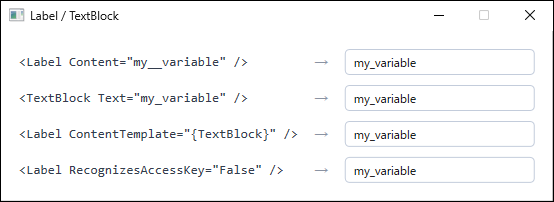
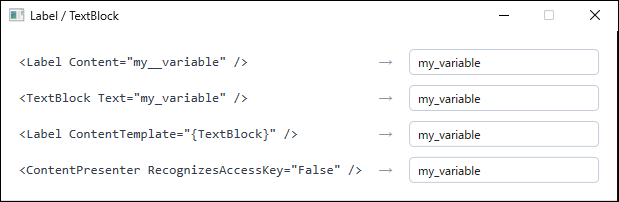
レビュー指摘 10 件に対応する
## 記事の記述

- `AccessText` の生成条件を訂正した。`RecognizesAccessKey` が `True` である
  だけでは生成されず、文字列にアンダーバーが含まれる場合に限られる。
- 対象コントロールの定義を「`ContentControl` を継承する標準コントロール全般」から
  「既定テンプレートの `ContentPresenter` が `RecognizesAccessKey="True"` である
  コントロール」に改めた。`ListBoxItem` や `ComboBoxItem` も `ContentControl` を
  継承するが影響を受けないため、継承関係では範囲を説明できない。
- 方法 4 の説明から「見た目と余白を保ったまま」を削除した。
  例示している `ControlTemplate` は `ContentPresenter` だけを置くため、
  `Border` と余白は失われる。デメリット欄の記述と矛盾していた。
- `SelectionChanged` を「ユーザー操作の通知」と書いていたのを訂正した。
  `SelectAll` の呼び出しや、コンテナ実体化時のバインドによる復元でも発生する。
  そのうえで、セッターで同値を弾く意味を追記した。
- `System.Windows.Interactivity` を `Microsoft.Xaml.Behaviors.Wpf` に改め、
  `InvokeCommandAction` を使う XAML の例を追加した。
- 実体化コンテナ数が件数に依存しない件を、10,000 件だけの計測に基づく記述から、
  図に示した 3 通り（100 / 10,000 / 100,000 件）の計測に基づく記述へ変更した。

## ツール

- `LabelVsTextBlockScene` の visual 集計から、入れ物である `StackPanel` も除いた。
  従来は `Border` だけを除いていたため 1 個多く数えており、
  「`Label` は `TextBlock` の 4 倍」がちょうど 4 倍にならなかった。
  4,001 → 4,000、1,001 → 1,000 となり、本文の記述と一致する。
- 仮想化計測の試行回数を 12 から `Iterations`（15）へ統一した。
  本文に「15 回試行」と書いていたが、この図だけ 12 回だった。
- `ListBoxSelectionSyncScene` のコスト計測を件数別に拡張し、
  100 / 10,000 / 100,000 件を計測するようにした。
  あわせて、最初の条件だけに JIT の影響が乗って
  「件数が多いほど速い」という誤解を招く並びになるのを避けるため暖機を追加した。
- `LabelUnderscoreScene` の XML ドキュメントコメントを 3 → 4 に直し、
  図に出す見出しを実際の XAML に合わせて
  `<ContentPresenter RecognizesAccessKey="False" />` にした。
  従来の `<Label RecognizesAccessKey="False" />` は `Label` に存在しない
  プロパティを書いた形になっていた。

## README
[…]

diff --git a/tools/screenshot-capture/Scenes/ListBoxSelectionSyncScene.cs b/tools/screenshot-capture/Scenes/ListBoxSelectionSyncScene.cs
@@ -61,10 +61,10 @@ internal sealed class ListBoxSelectionSyncScene : IScene
             => PropertyChanged?.Invoke(this, new PropertyChangedEventArgs(propertyName));
     }
 
-    private static List<RowItemViewModel> CreateRows()
+    private static List<RowItemViewModel> CreateRows(int count = ItemCount)
     {
-        var rows = new List<RowItemViewModel>(ItemCount);
-        for (int i = 1; i <= ItemCount; i++)
+        var rows = new List<RowItemViewModel>(count);
+        for (int i = 1; i <= count; i++)
         {
             rows.Add(new RowItemViewModel { Name = $"Row {i}" });
         }
@@ -170,17 +170,36 @@ internal sealed class ListBoxSelectionSyncScene : IScene
     }
 
     /// <summary>
-    /// <c>CanContentScroll</c> を切り替えたときに、実体化される
-    /// <see cref="ListBoxItem"/> の数とレイアウト時間がどう変わるかを測る。
+    /// 実体化される <see cref="ListBoxItem"/> の数が件数に依存しないことと、
+    /// <c>CanContentScroll</c> を <c>False</c> にすると仮想化が止まることを測る。
+    /// 前者を示すため、件数を変えた 3 通りを同じ条件で計測する。
     /// </summary>
     private static Window BuildVirtualizationCostWindow()
     {
+        // CanContentScroll="False" は全件分のコンテナを作るため、
+        // 件数を増やした組み合わせは測らない。
+        (int Items, bool CanContentScroll)[] conditions =
+        [
+            (100, true),
+            (ItemCount, true),
+            (100_000, true),
+            (ItemCount, false),
+        ];
+
         var rows = new List<IReadOnlyList<string>>();
 
         // ウィンドウの生成コストを計測に含めないよう、空のウィンドウを先に表示しておく。
         using var host = new HostWindow();
 
-        foreach (bool canContentScroll in new[] { true, false })
+        // JIT とテンプレート初期化の影響が最初の条件だけに乗ると、
+        // 件数が多いほど速いという誤解を招く並びになるため、先に暖機する。
+        for (int i = 0; i < 2; i++)
+        {
+            host.MeasureMount(CreateListBox(CreateRows(), bindIsSelected: true));
+            host.Clear();
+        }
+
+        foreach ((int items, bool canContentScroll) in conditions)
         {
             double best = double.MaxValue;
             int containers = 0;
@@ -189,8 +208,8 @@ internal sealed class ListBoxSelectionSyncScene : IScene
             // 単発では GC やレンダリングの影響でばらつくため、複数回試して最小値を採る。
             for (int i = 0; i < MeasureIterations; i++)
             {
-                List<RowItemViewModel> items = CreateRows();
-                ListBox listBox = CreateListBox(items, bindIsSelected: true, canContentScroll);
+                List<RowItemViewModel> data = CreateRows(items);
+                ListBox listBox = CreateListBox(data, bindIsSelected: true, canContentScroll);
 
                 best = Math.Min(best, host.MeasureMount(listBox));
                 containers = FindAll<ListBoxItem>(listBox).Count;
@@ -201,6 +220,7 @@ internal sealed class ListBoxSelectionSyncScene : IScene
 
             rows.Add(
             [
+                Format(items),
                 canContentScroll.ToString(),
                 Format(containers),
                 Format(visuals),
@@ -209,8 +229,8 @@ internal sealed class ListBoxSelectionSyncScene : IScene
         }
 
         return DemoLayout.BuildTableWindow(
-            $"ListBox, {ItemCount:N0} items",
-            ["CanContentScroll", "ListBoxItem", "visuals", "layout ms"],
+            "ListBox, IsVirtualizing=True",
+            ["items", "CanContentScroll", "ListBoxItem", "visuals", "layout ms"],
             rows);
     }
 

diff --git a/tools/screenshot-capture/Scenes/LabelUnderscoreScene.cs b/tools/screenshot-capture/Scenes/LabelUnderscoreScene.cs
@@ -71,7 +71,7 @@ internal sealed class LabelUnderscoreScene : IScene
     }
 
     /// <summary>
-    /// 本文「実装例」の 3 つの回避方法が、いずれも my_variable と表示されることを示す。
+    /// 本文「実装例」の 4 つの回避方法が、いずれも my_variable と表示されることを示す。
     /// </summary>
     private static Window BuildWorkaroundWindow()
     {
@@ -95,8 +95,9 @@ internal sealed class LabelUnderscoreScene : IScene
                       </Label.ContentTemplate>
                     </Label>
                     """)),
+            // 差し替えた ControlTemplate のうち、結果を決めている要素だけを見出しに出す。
             new DemoLayout.Row(
-                """<Label RecognizesAccessKey="False" />""",
+                """<ContentPresenter RecognizesAccessKey="False" />""",
                 SceneContext.LoadXaml<Label>(
                     """
                     <Label Content="my_variable" Padding="0">

diff --git a/tools/screenshot-capture/Scenes/LabelVsTextBlockScene.cs b/tools/screenshot-capture/Scenes/LabelVsTextBlockScene.cs
@@ -138,7 +138,7 @@ internal sealed class LabelVsTextBlockScene : IScene
         var label = new Measurement();
         var textBlock = new Measurement();
 
-        for (int i = 0; i < 12; i++)
+        for (int i = 0; i < Iterations; i++)
         {
             label.Add(MeasureVirtualized(labelItem));
             textBlock.Add(MeasureVirtualized(textBlockItem));
@@ -189,8 +189,9 @@ internal sealed class LabelVsTextBlockScene : IScene
         host.UpdateLayout();
         stopwatch.Stop();
 
-        // ホストの Border 自身は数えない。
-        return new Sample(CountVisuals(host) - 1, stopwatch.Elapsed.TotalMilliseconds);
+        // 並べた要素の分だけを数えるため、入れ物である Border と StackPanel の
+        // 2 個を除く。こうすると 1 個あたりの visual 数がそのまま倍率になる。
+        return new Sample(CountVisuals(host) - 2, stopwatch.Elapsed.TotalMilliseconds);
     }
 
     /// <summary>

diff --git a/_articles_en/wpf-listbox-virtualization-selecteditems.md b/_articles_en/wpf-listbox-virtualization-selecteditems.md
@@ -58,7 +58,8 @@ With `VirtualizationMode="Recycling"`, containers are reused, which makes incons
 ### Realized Containers Do Not Scale with Item Count
 
 With virtualization active, only as many `ListBoxItem` instances exist as the visible range requires.
-Measured on a 600px-tall `ListBox`, the number of realized containers stayed constant at 31 whether the collection held 100 items or 100,000.
+Measured on a 600px-tall `ListBox`, the number of realized containers stayed constant at 31 across collections of 100, 10,000, and 100,000 items.
+Those measurements appear in the figure under "Keeping Virtualization Intact" below.
 
 Only those 31 containers carry a binding; the remaining 9,969 items have none.
 The belief that "state is safe as long as it lives on the data" **holds only in the data-to-container direction**.
@@ -231,8 +232,30 @@ private void RowListBox_SelectionChanged(object sender, SelectionChangedEventArg
 }
 ```
 
-To preserve MVVM, invoke the same logic from an attached behavior or an `EventTrigger`.
-`SelectionChanged` reports a user action rather than a `ListBox` implementation detail, so delegating it to a ViewModel command raises no structural concern.
+`SelectionChanged` is not raised by user interaction alone.
+It also fires on a `SelectAll` call, on assignment to `SelectedItem`, and — in the configuration described here — **when a container is realized and the binding restores its selection state**.
+The handler above therefore receives a call assigning `true` to an item that is already `true` every time a container is restored.
+Rejecting an unchanged value in the setter, as `RowItemViewModel` does above, keeps that path from emitting redundant change notifications.
+
+To preserve MVVM, invoke the same logic from an attached behavior or from an `EventTrigger` in the `Microsoft.Xaml.Behaviors.Wpf` package.
+`System.Windows.Interactivity` (the Blend SDK) has been superseded by `Microsoft.Xaml.Behaviors` and should not be used for new work.
+
+```xml
+<ListBox ItemsSource="{Binding Items}"
+         SelectionMode="Extended"
+         xmlns:b="http://schemas.microsoft.com/xaml/behaviors">
+    <b:Interaction.Triggers>
+        <b:EventTrigger EventName="SelectionChanged">
+            <b:InvokeCommandAction Command="{Binding SelectionChangedCommand}"
+                                   PassEventArgsToCommand="True" />
+        </b:EventTrigger>
+    </b:Interaction.Triggers>
+    <!-- ItemTemplate and ItemContainerStyle as shown above -->
+</ListBox>
+```
+
+`PassEventArgsToCommand="True"` hands the command a `SelectionChangedEventArgs`.
+`e.AddedItems` and `e.RemovedItems` are handled exactly as in the code-behind version.
 
 Wire the event up in XAML.
 
@@ -279,11 +302,14 @@ Setting `ScrollViewer.CanContentScroll` to `False` changes the scroll unit from 
 The impact was measured as follows.
 
 <figure class="article-figure">
-  <img src="/images/articles/wpf-listbox-virtualization-selecteditems/listbox-virtualization-cost.png" alt="A table comparing CanContentScroll values. With True there are 31 ListBoxItem containers and 152 visuals; with False these rise to 10,000 and 40,028, and layout time grows by two orders of magnitude." width="463" height="160" loading="lazy">
-  <figcaption>Measured on .NET 10 / Windows 11 by toggling <code>ScrollViewer.CanContentScroll</code> on a <code>ListBox</code> bound to 10,000 items, taking the minimum of five runs. With <code>False</code>, containers are built for every item and layout time grows by two orders of magnitude. Elapsed time depends on the execution environment, so read the values as ratios rather than absolute numbers.</figcaption>
+  <img src="/images/articles/wpf-listbox-virtualization-selecteditems/listbox-virtualization-cost.png" alt="A table measured across item counts and CanContentScroll values. With CanContentScroll True, ListBoxItem stays at 31 and visuals at 152 for 100 items and for 100,000. Setting False at 10,000 items raises these to 10,000 and 40,028, and layout time grows by two orders of magnitude." width="542" height="221" loading="lazy">
+  <figcaption>Measured on .NET 10 / Windows 11 across item counts and <code>ScrollViewer.CanContentScroll</code> values, taking the minimum of five runs. The three <code>True</code> rows show that a thousandfold increase in item count changes neither the container count, the visual count, nor the layout time. With <code>False</code>, containers are built for every item and layout time grows by two orders of magnitude. Elapsed time depends on the execution environment, so read the values as ratios rather than absolute numbers.</figcaption>
 </figure>
 
-With `False`, realized `ListBoxItem` containers rise from 31 to 10,000 and the total visual count from 152 to 40,028.
+While `CanContentScroll` stays `True`, raising the item count a thousandfold from 100 to 100,000 leaves realized `ListBoxItem` containers at 31 and the total visual count at 152.
+Cost being independent of item count is precisely what virtualization buys.
+
+With `False` at 10,000 items, realized containers rise from 31 to 10,000 and the total visual count from 152 to 40,028.
 The difference in layout time reaches two orders of magnitude.
 
 Setting `CanContentScroll="False"` in pursuit of smooth pixel-based scrolling sacrifices virtualization and becomes impractical at large item counts.

diff --git a/_articles_en/wpf-label-underscore-issue.md b/_articles_en/wpf-label-underscore-issue.md
@@ -20,7 +20,7 @@ This article establishes the affected range of controls through measurement, the
 ## Prerequisites / Environment
 
 - Framework / Language: .NET 10 / C# / WPF / XAML
-- Target controls: `Label`, and standard controls deriving from `ContentControl` in general
+- Target controls: standard controls whose default template sets `ContentPresenter.RecognizesAccessKey` to `True` — `Label`, `Button`, `CheckBox`, `RadioButton`, `ToggleButton`, and the `Header` of `GroupBox`, `Expander`, `TabItem`, and `MenuItem`
 - Architecture: Applies to both MVVM and code-behind approaches
 - Verification environment: Windows 11, default theme (Aero2), display scaling 100%
 - Prior knowledge: WPF basics, XAML fundamentals
@@ -70,7 +70,8 @@ Given `a_b_c`, the access key becomes `b` and the second underscore is rendered 
 ### What Decides Whether AccessText Is Used
 
 Whether `AccessText` is used is determined not by the `Label` type itself, but by the **`RecognizesAccessKey` property of the `ContentPresenter` placed in the default `ControlTemplate`**.
-When that property is `True` and `Content` is a string, the `ContentPresenter` produces an `AccessText` instead of a plain `TextBlock`.
+The `ContentPresenter` produces an `AccessText` only when `RecognizesAccessKey` is `True` **and the string contains an underscore**.
+For a string without one, a plain `TextBlock` is used even though `RecognizesAccessKey` is `True`.
 
 Walking the visual tree makes the difference explicit.
 
@@ -127,7 +128,7 @@ There are four workarounds. The appropriate one depends on the use case.
 - To simply escape the underscore, write it twice as `__` (Workaround 1).
 - When access keys are unnecessary and the text is display-only, switch to `TextBlock` (Workaround 2).
 - To keep `Label` while rendering dynamically bound data correctly, use a `TextBlock` in `ContentTemplate` (Workaround 3).
-- To keep the appearance and padding of `Label` while disabling access-key interpretation, set `RecognizesAccessKey="False"` in a `ControlTemplate` (Workaround 4).
+- To disable access-key interpretation itself regardless of the `Content` type, set `RecognizesAccessKey="False"` in a `ControlTemplate` (Workaround 4). This replaces the default template, so the `Border` and padding must be rebuilt by hand.
 
 Workaround 1 is the only approach that fixes the display while retaining access-key functionality. Workarounds 2 through 4 all give up access keys in exchange for handling strings verbatim.
 
@@ -239,7 +240,7 @@ When the default appearance must be preserved, Workaround 3 has a smaller blast 
 Applying each of the four workarounds produces the same rendered result.
 
 <figure class="article-figure">
-  <img src="/images/articles/wpf-label-underscore-issue/label-underscore-workarounds.png" alt="A WPF window showing four workarounds: an escaped Label, a TextBlock, a Label with a replaced ContentTemplate, and a Label with RecognizesAccessKey set to False. All four render my_variable." width="554" height="202" loading="lazy">
+  <img src="/images/articles/wpf-label-underscore-issue/label-underscore-workarounds.png" alt="A WPF window showing four workarounds: an escaped Label, a TextBlock, a Label with a replaced ContentTemplate, and a Label with RecognizesAccessKey set to False. All four render my_variable." width="619" height="202" loading="lazy">
   <figcaption>The four workarounds executed in the same application. Escaping with <code>__</code>, switching to <code>TextBlock</code>, replacing <code>ContentTemplate</code>, and setting <code>RecognizesAccessKey="False"</code> all display <code>my_variable</code> without loss.</figcaption>
 </figure>
 

diff --git a/tools/screenshot-capture/README.md b/tools/screenshot-capture/README.md
@@ -29,6 +29,13 @@ dotnet run --project tools/screenshot-capture -c Release -- wpf-label-underscore
 実行中はウィンドウが順に表示されてフォーカスを奪う。数秒で終了する。
 保存したファイルのパスが標準出力に列挙される。
 
+> ⚠ **ディスプレイが表示状態である必要がある。**
+> 電源管理でモニターが切れていると、DWM がウィンドウの内容を合成しないため、
+> `PrintWindow` はタイトルバーと枠だけが写った**中身が白紙の画像**を返す。
+> 失敗ではなく正常終了するので、生成後は画像を目視で確認する。
+> 無人で回す場合は、実行前にマウス操作などで画面を復帰させる
+> （`powercfg /query SCHEME_CURRENT SUB_VIDEO VIDEOIDLE` で現在のタイムアウトを確認できる）。
+
 ## シーンの追加
 
 1. `Scenes/` に `IScene` を実装したクラスを追加する。
